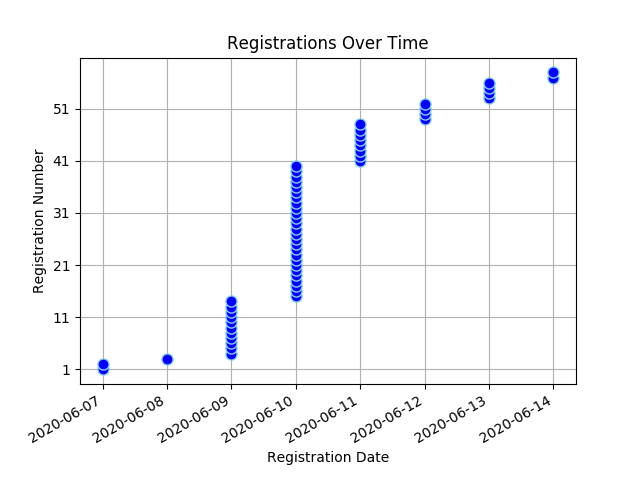
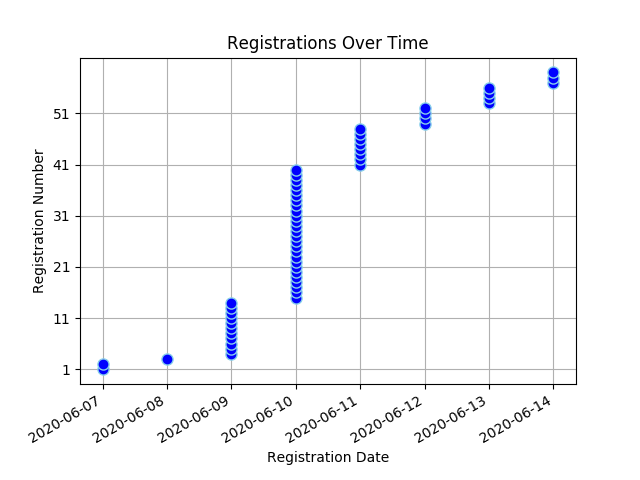
Registree stats backup on Sun Jun 14 17:19:30 SAST 2020

diff --git a/content/virtual_conf_stats/_index.md b/content/virtual_conf_stats/_index.md
@@ -16,7 +16,7 @@ draft: false
 </head>
 <body>
 <h1 style="color: #000000;">Virtual Convention Registration Stats</h1>
-<ul><li><strong>Number of Registrees</strong>: 58</li>
+<ul><li><strong>Number of Registrees</strong>: 59</li>
 </ul><a href="/docs/virtual_convention_stats.csv">Download registration details here</a>
 <h2>Registrees</h2>
 <table id="registreeTable" class="tablesorter" border="1" padding=1>
@@ -61,6 +61,7 @@ Club
 <tr><td>Meyer, Denis</td><td>Port Shepstone</td></tr>
 <tr><td>Michas, Roy</td><td>Midrand</td></tr>
 <tr><td>Mills, Patrick</td><td>Centurion</td></tr>
+<tr><td>Nulliah, Ramona</td><td>Durban Host</td></tr>
 <tr><td>Polkinghorne, Gavin</td><td>Kensington</td></tr>
 <tr><td>Polkinghorne, Tracey</td><td>Kensington</td></tr>
 <tr><td>Searle, Gloria Ann</td><td>Kouga</td></tr>
